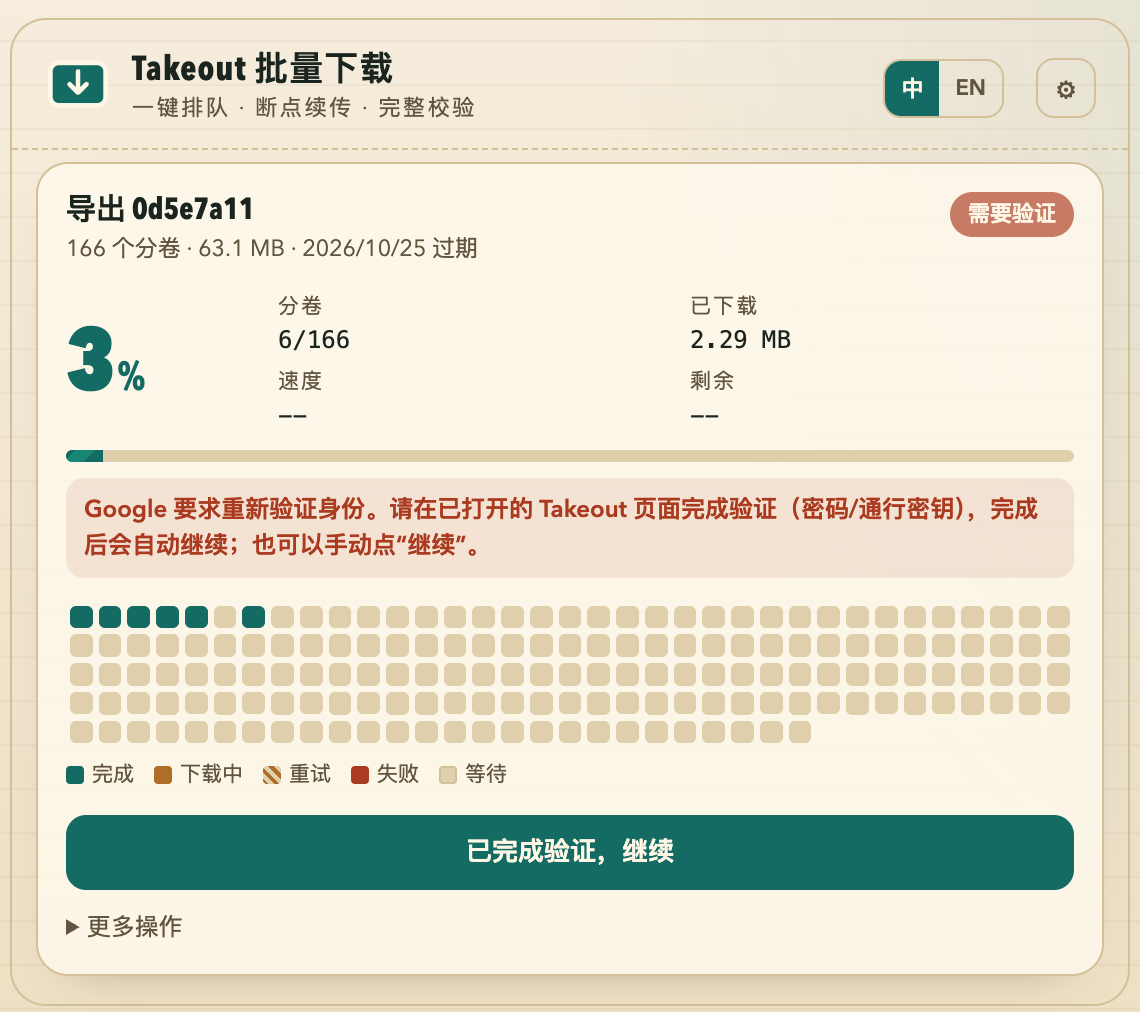
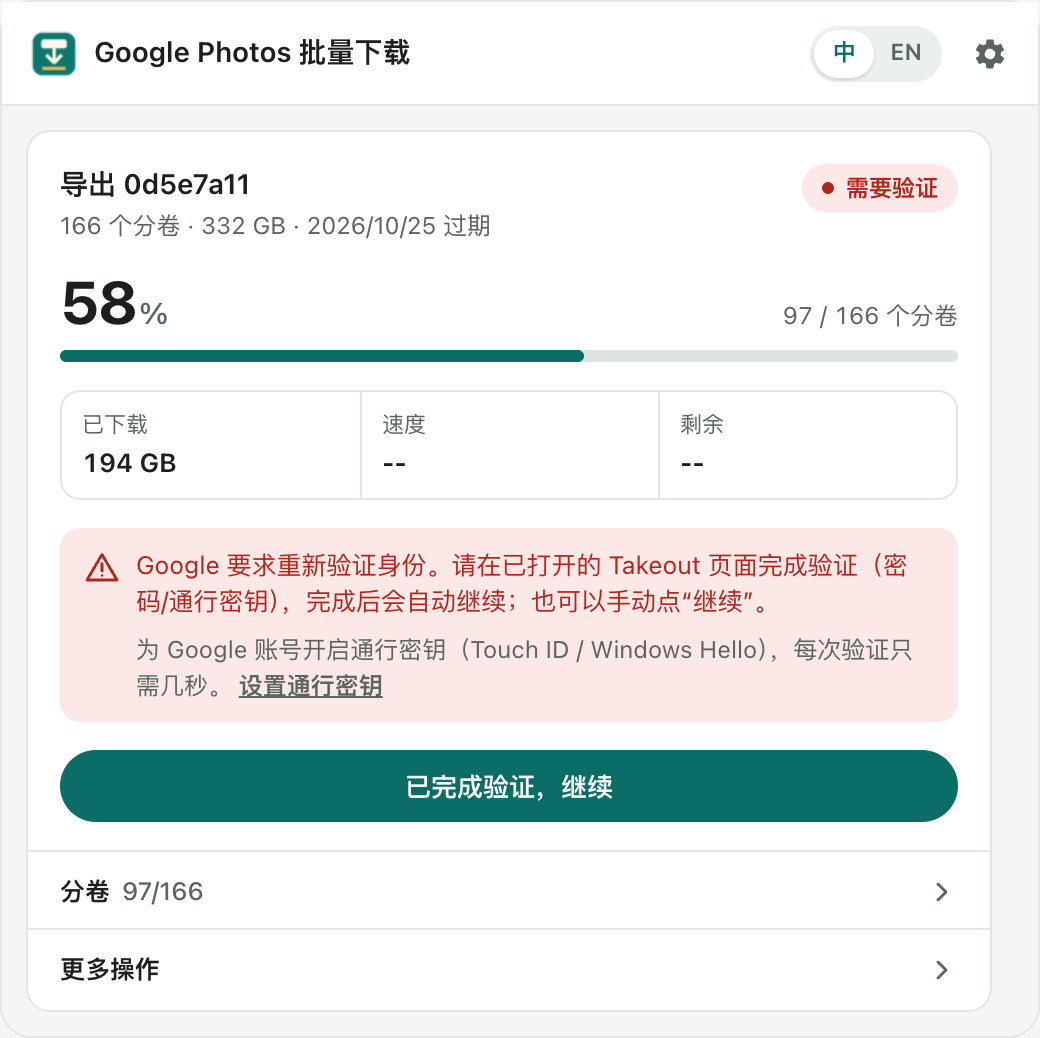
Refresh README and Chrome Web Store images from the current UI; add store kit script

diff --git a/tools/shots/stub.js b/tools/shots/stub.js
@@ -1,0 +1,70 @@
+// Stand-in for chrome.* used by tools/ui-shots.mjs. Demo data only: fake job id, no personal info.
+import { summarize } from '../../extension/src/core.js';
+
+const q = new URLSearchParams(new URL(import.meta.url).search || location.search);
+const lang = q.get('lang') || new URLSearchParams(location.search).get('lang') || 'en';
+const scene = q.get('scene') || new URLSearchParams(location.search).get('scene') || 'running';
+const GB = 1024 ** 3;
+const TOTAL = 166;
+const now = Date.now();
+
+function makeJob() {
+  const parts = {};
+  for (let n = 1; n <= TOTAL; n += 1) {
+    const p = { part: n, sizeBytes: 2 * GB, status: 'pending', attempts: 0, bytes: 0 };
+    if (scene === 'done' || n <= 97) Object.assign(p, { status: 'done', fileSize: 2 * GB - 1500 * n, bytes: 2 * GB });
+    else if (scene === 'running' && n <= 101) Object.assign(p, { status: 'downloading', downloadId: n, bytes: [1.62, 1.1, 0.58, 0.21][n - 98] * GB });
+    else if (scene === 'running' && n === 102) Object.assign(p, { status: 'retrying', attempts: 1 });
+    parts[n] = p;
+  }
+  const job = {
+    jobId: '0d5e7a11-c0de-4b2a-9e61-7a6e0a7c1234',
+    totalParts: TOTAL,
+    expiresAt: now + 5 * 86400000,
+    createdAt: now - 6 * 3600000,
+    status: { running: 'running', auth: 'needs_auth', done: 'done' }[scene],
+    notice: '',
+    parts,
+  };
+  const list = Object.values(parts).map((p) => ({ ...p, paused: false, totalBytesLive: p.status === 'downloading' ? 2 * GB : 0 }));
+  return {
+    ...job,
+    parts: list,
+    speed: scene === 'running' ? 41.6 * 1024 ** 2 : 0,
+    summary: summarize(job),
+    nextAuthAt: scene === 'running' ? now + 14 * 60000 : 0,
+    bursting: false,
+  };
+}
+
+const settings = {
+  concurrency: 3,
+  subfolder: 'Google Takeout',
+  dataBudgetGB: 0,
+  keepAwake: true,
+  keepScreenOn: true,
+  notify: true,
+  maxAttempts: 3,
+  windowEnabled: false,
+  windowStart: '00:00',
+  windowEnd: '08:00',
+  language: lang,
+  burstSize: 6,
+  authSound: true,
+};
+
+const job = makeJob();
+globalThis.chrome = {
+  runtime: {
+    lastError: null,
+    getManifest: () => ({ version: '0.5.1' }),
+    getURL: (p) => `/extension/${p}`,
+    sendMessage(msg, cb) {
+      const data = msg.type === 'getState' ? { settings, jobs: [job] } : msg.type === 'scan' ? { jobId: job.jobId } : true;
+      setTimeout(() => cb?.({ ok: true, data }), 0);
+    },
+    onMessage: { addListener() {} },
+  },
+  i18n: { getUILanguage: () => (lang === 'zh' ? 'zh-CN' : 'en-US') },
+  tabs: { create() {} },
+};

diff --git a/tools/shots/takeout.html b/tools/shots/takeout.html
@@ -1,0 +1,44 @@
+<!doctype html>
+<html>
+<head>
+  <meta charset="utf-8" />
+  <title>Google Takeout</title>
+  <style>
+    body { margin: 0; width: 1100px; height: 720px; font-family: Arial, "PingFang SC", sans-serif; color: #202124; background: #fff; }
+    header { height: 56px; border-bottom: 1px solid #e8eaed; display: flex; align-items: center; gap: 8px; padding: 0 24px; font-size: 20px; color: #5f6368; }
+    header b { color: #4285f4; }
+    main { padding: 24px 40px; max-width: 640px; }
+    h2 { font-weight: 400; font-size: 24px; margin: 0 0 6px; }
+    .sub { color: #5f6368; font-size: 14px; margin-bottom: 14px; }
+    .row { display: flex; justify-content: space-between; align-items: center; padding: 12px 0; border-bottom: 1px solid #eceff1; font-size: 15px; color: #3c4043; }
+    .row a { font-size: 14px; color: #1a73e8; border: 1px solid #dadce0; border-radius: 4px; padding: 6px 16px; text-decoration: none; }
+  </style>
+</head>
+<body>
+  <header><b>G</b> Takeout</header>
+  <main>
+    <h2 id="h"></h2>
+    <div class="sub" id="sub"></div>
+    <div id="list"></div>
+  </main>
+  <script type="module">
+    // A simplified "Manage exports" page; the real content script (extension/src/content.js) adds its panel.
+    const q = location.search;
+    await import(`/tools/shots/stub.js${q}`);
+    const zh = new URLSearchParams(q).get('lang') === 'zh';
+    document.getElementById('h').textContent = zh ? '下载您的文件' : 'Download your files';
+    document.getElementById('sub').textContent = zh
+      ? '导出数据共 166 个部分，这些文件将于 2026年10月25日 14:50 过期。'
+      : 'Your export has 166 parts. These files expire on Oct 25, 2026.';
+    const job = '0d5e7a11-c0de-4b2a-9e61-7a6e0a7c1234';
+    document.getElementById('list').innerHTML = Array.from({ length: 9 }, (_, i) => {
+      const n = i + 1;
+      const label = zh ? `下载第 ${n} 部分（共 166 部分）` : `Download part ${n} of 166`;
+      return `<div class="row"><span>${zh ? `第 ${n} 部分` : `Part ${n}`} · 2GB</span><a aria-label="${label}" href="https://takeout.google.com/takeout/download?j=${job}&i=${i}&user=1">${zh ? '下载' : 'Download'}</a></div>`;
+    }).join('');
+    const s = document.createElement('script');
+    s.src = '/extension/src/content.js';
+    document.body.appendChild(s);
+  </script>
+</body>
+</html>

diff --git a/store/README.md b/store/README.md
@@ -9,7 +9,9 @@ Everything needed to publish **Google Photos Batch Downloader** on the Chrome We
 | [`LISTING.md`](LISTING.md) | Store listing text: name, summary, description, category (English + 简体中文) |
 | [`PRIVACY_PRACTICES.md`](PRIVACY_PRACTICES.md) | Answers for the **Privacy practices** tab: single purpose, permission justifications, data use |
 | [`assets/en/`](assets/en), [`assets/zh/`](assets/zh) | Screenshots 1280×800 (×5), small promo tile 440×280, marquee 1400×560 |
-| [`../tools/store-assets.mjs`](../tools/store-assets.mjs) | Regenerates the images (`node tools/store-assets.mjs`, needs Chrome) |
+| [`../tools/ui-shots.mjs`](../tools/ui-shots.mjs) | Screenshots of the real popup / page panel with demo data → `docs/images`, `assets/src` |
+| [`../tools/store-assets.mjs`](../tools/store-assets.mjs) | Builds the store images from those screenshots (`node tools/store-assets.mjs`, needs Chrome) |
+| [`../tools/store-kit.sh`](../tools/store-kit.sh) | Collects the upload zip, icon, screenshots, promo tiles and texts into `dist/store-kit-<version>/` |
 | [`../tools/pack.sh`](../tools/pack.sh) | Builds the upload zip `dist/google-photos-batch-downloader-<version>.zip` |
 
 ## Checklist
@@ -21,6 +23,8 @@ Everything needed to publish **Google Photos Batch Downloader** on the Chrome We
 - [ ] **Account → Contact email**: set and verify a contact email.
 
 ### Upload
+- [ ] Refresh images if the UI changed: `node tools/ui-shots.mjs && node tools/store-assets.mjs`.
+- [ ] `bash tools/store-kit.sh` → everything to upload is in `dist/store-kit-<version>/`.
 - [ ] `node --test tests/*.test.mjs` passes.
 - [ ] Bump `version` in `extension/manifest.json` if this version was uploaded before, and add a CHANGELOG entry.
 - [ ] `bash tools/pack.sh` → upload `dist/google-photos-batch-downloader-<version>.zip` (**Add new item**).

diff --git a/store/README.zh-CN.md b/store/README.zh-CN.md
@@ -9,7 +9,9 @@
 | [`LISTING.md`](LISTING.md) | 商店页面文案：名称、简介、详细说明、类别（中英文） |
 | [`PRIVACY_PRACTICES.md`](PRIVACY_PRACTICES.md) | **隐私权规范**页面要填的内容：单一用途、每个权限的理由、数据使用 |
 | [`assets/en/`](assets/en)、[`assets/zh/`](assets/zh) | 1280×800 截图 5 张、440×280 小宣传图、1400×560 大幅宣传图 |
-| [`../tools/store-assets.mjs`](../tools/store-assets.mjs) | 重新生成这些图片（`node tools/store-assets.mjs`，需要 Chrome） |
+| [`../tools/ui-shots.mjs`](../tools/ui-shots.mjs) | 用演示数据截取真实的弹窗和页面面板 → `docs/images`、`assets/src` |
+| [`../tools/store-assets.mjs`](../tools/store-assets.mjs) | 用这些截图生成商店图片（`node tools/store-assets.mjs`，需要 Chrome） |
+| [`../tools/store-kit.sh`](../tools/store-kit.sh) | 把上传 zip、图标、截图、宣传图和文案汇总到 `dist/store-kit-<版本>/` |
 | [`../tools/pack.sh`](../tools/pack.sh) | 打包上传用的 zip：`dist/google-photos-batch-downloader-<版本>.zip` |
 
 ## 上架步骤
@@ -20,6 +22,8 @@
 - [ ] **账号 → 联系邮箱**：填写并验证联系邮箱。
 
 ### 上传
+- [ ] 界面有改动时先更新图片：`node tools/ui-shots.mjs && node tools/store-assets.mjs`。
+- [ ] 运行 `bash tools/store-kit.sh`，要上传的东西都在 `dist/store-kit-<版本>/`。
 - [ ] `node --test tests/*.test.mjs` 全部通过。
 - [ ] 如果这个版本号上传过，先改 `extension/manifest.json` 里的 `version`，并更新 CHANGELOG。
 - [ ] 运行 `bash tools/pack.sh`，上传 `dist/google-photos-batch-downloader-<版本>.zip`（**添加新内容**）。

diff --git a/README.zh-CN.md b/README.zh-CN.md
@@ -48,6 +48,14 @@
 | **手动修正** | 可以把已有的分卷标记为“已有”，或强制重新下载指定分卷。 |
 | **中英双语界面** | 默认跟随浏览器语言，也可一键切换。 |
 
+## 截图
+
+<p align="center">
+  <img src="docs/images/popup-auth-zh.png" width="380" alt="需要验证时自动暂停，验证完成后自动继续" />
+  &nbsp;
+  <img src="docs/images/settings-zh.png" width="380" alt="设置：同时下载数、验证后集中启动、保存文件夹、流量上限、定时下载、防止休眠" />
+</p>
+
 ## 安装
 
 目前还没有上架 Chrome 应用商店，请从源码安装：

diff --git a/CHANGELOG.md b/CHANGELOG.md
@@ -1,5 +1,11 @@
 # Changelog
 
+## Unreleased
+
+- README and Chrome Web Store images regenerated from the current UI (new name, 0.5 layout); README gains
+  sign-in and settings screenshots. New `tools/ui-shots.mjs` (real popup/panel with demo data) and
+  `tools/store-kit.sh` (everything to upload in one folder).
+
 ## 0.5.1 — 2026-10-20
 
 - Fix: a part that contains a single very large file (for example a long video) is served by Google as that file
